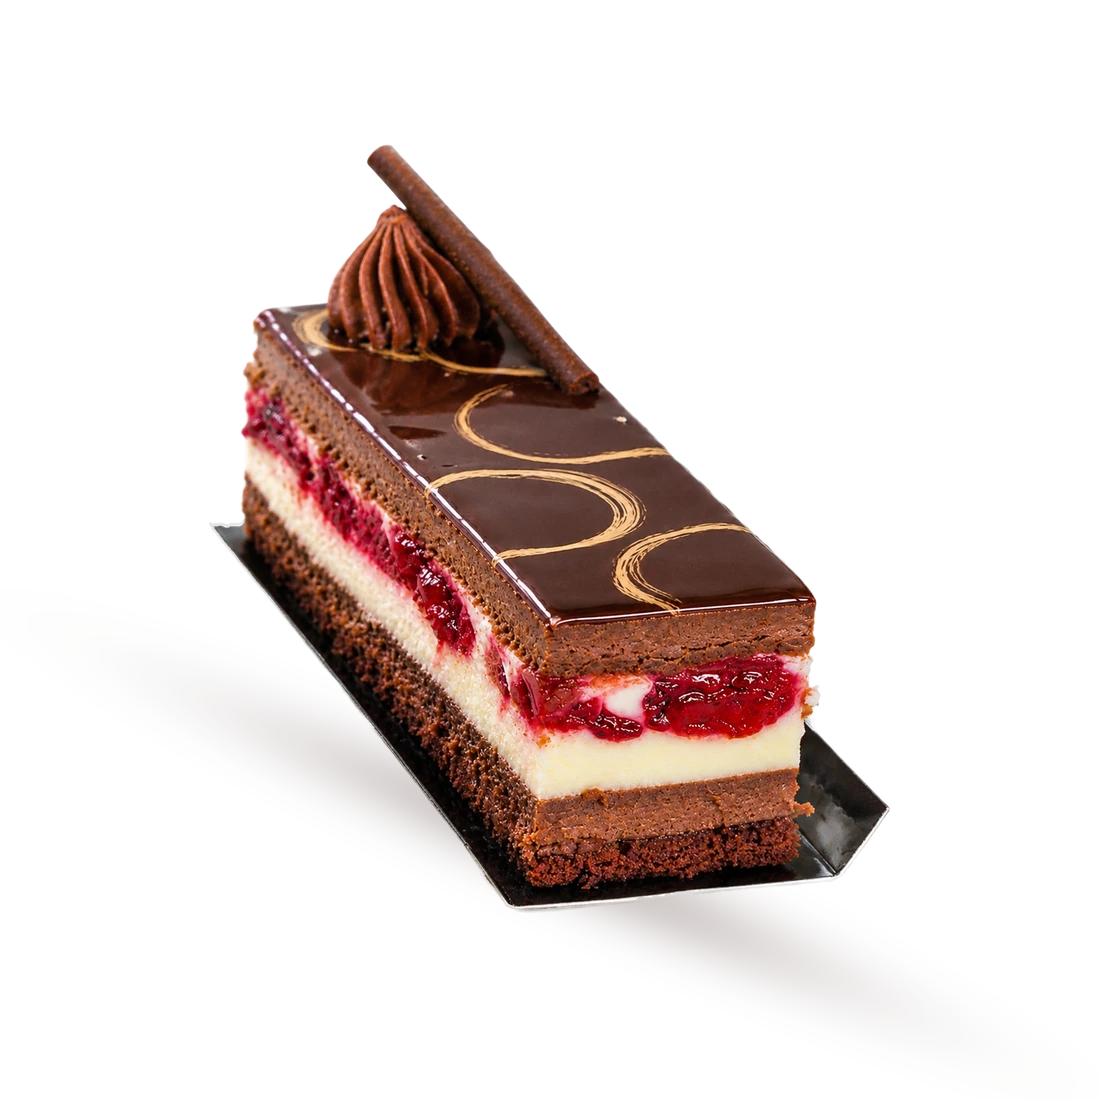
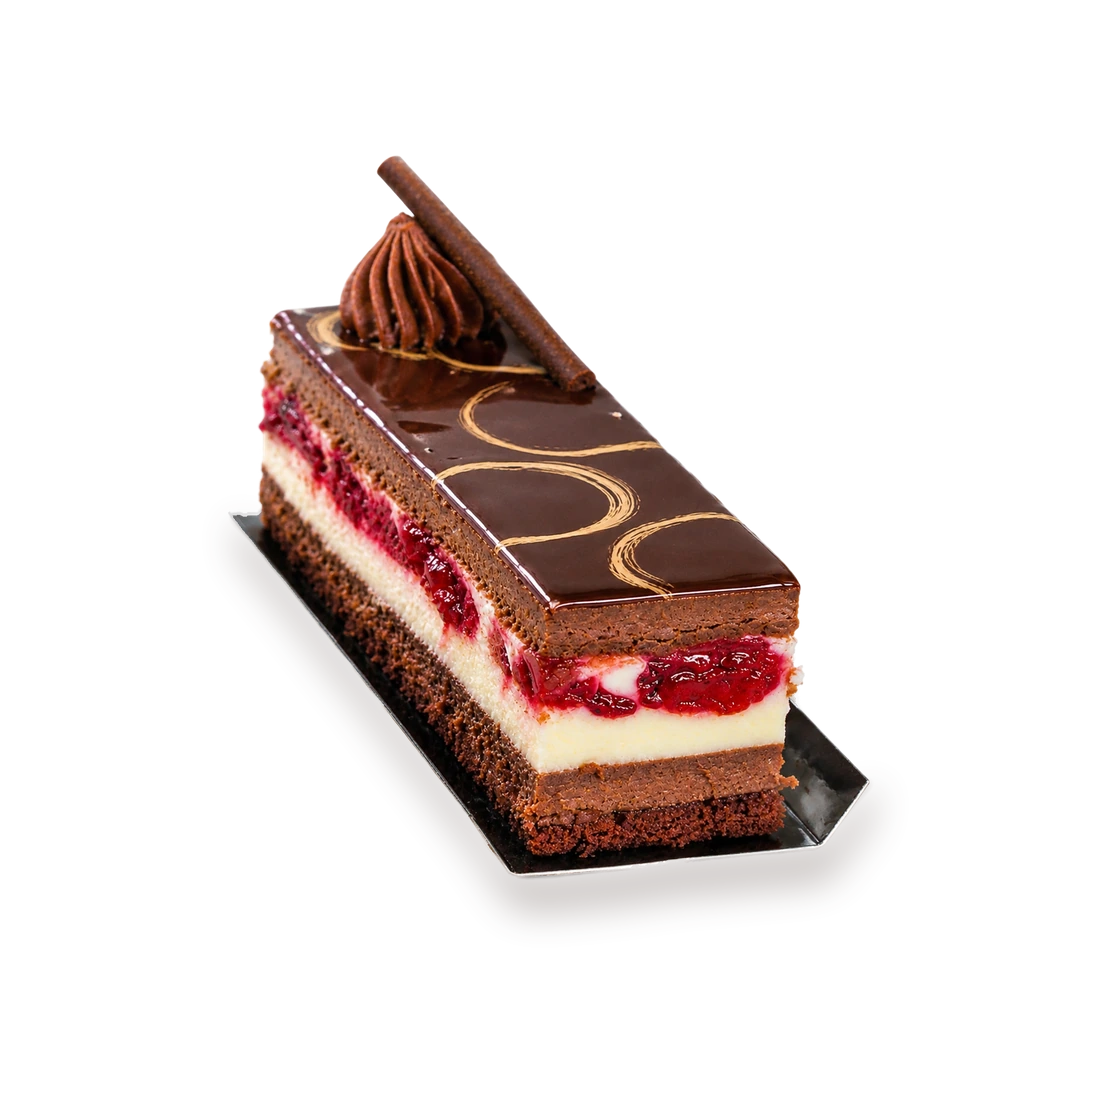
Pastries: sombra de contacto natural que sigue la base de cada producto
Claude-Session: https://claude.ai/code/session_01C9ppkekJrs6j71wqx2EVeV

Changed region(s): [[0.1855, 0.1545, 0.8036, 0.8964], [0.34, 0.1236, 0.3709, 0.1545]]

diff --git a/index.html b/index.html
@@ -364,7 +364,7 @@ const PHOTOS={choc_strawberries:1,black_forest_pastry:1,apple_butter_pecan:2,car
 P.forEach(p => { if (SEASONAL[p.id]) p.seasonal = true; if (PHOTOS[p.id]){ p.photo = true; p.views = PHOTOS[p.id]; } });
 
 
-const BUILD = '202611091936';
+const BUILD = '202611091943';
 let lang = 'es', cat = 'cupcakes', tag = null, current = -1, view = 'out', list = [];
 try { const s = JSON.parse(localStorage.getItem('ytb-cat') || '{}'); if (s.lang) lang = s.lang; } catch(e) {}
 const $ = id => document.getElementById(id);
